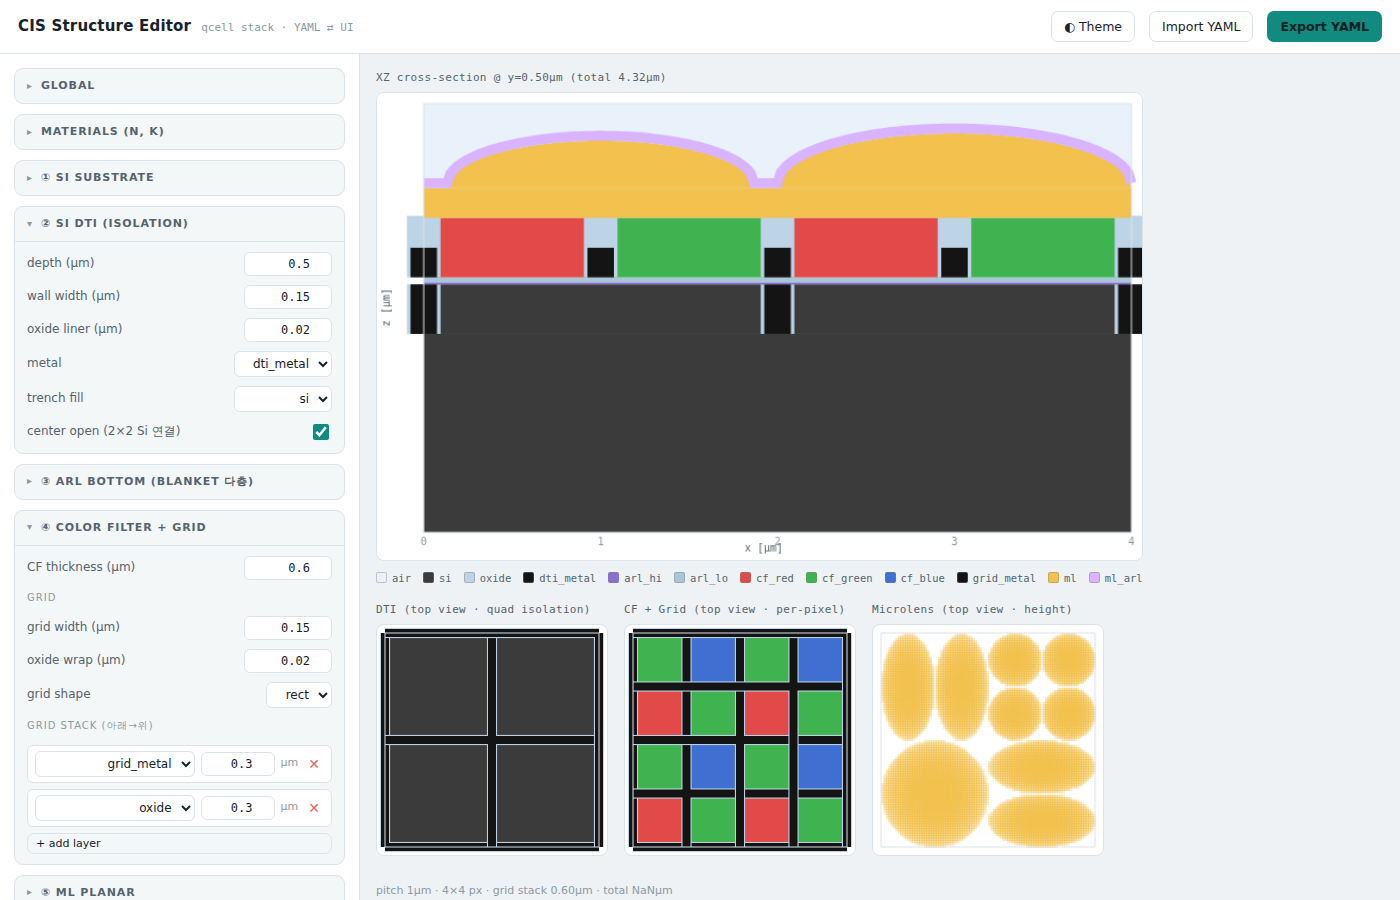
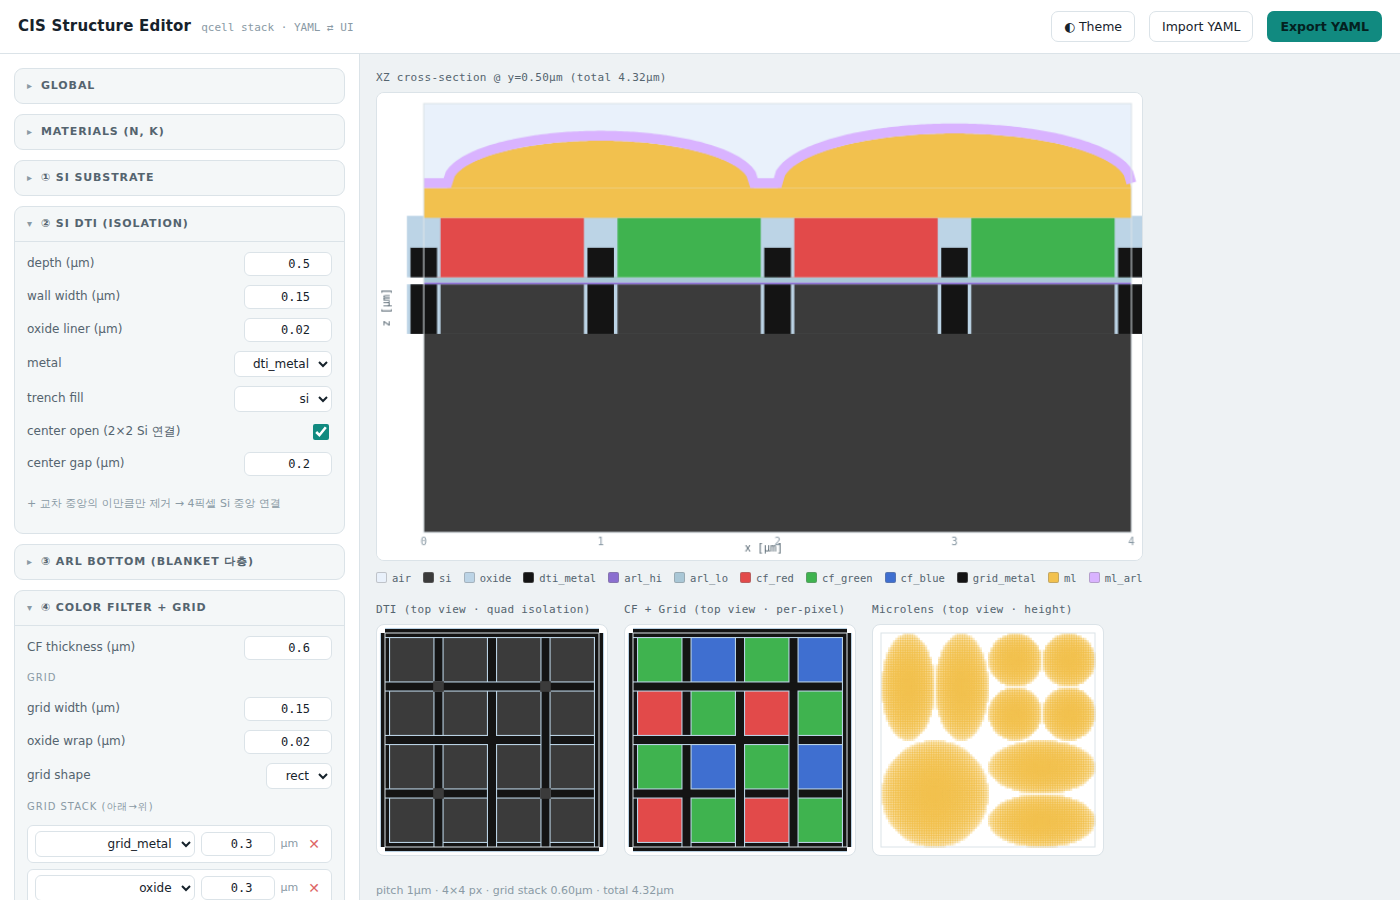
Fix DTI center: remove only small center gap (keep intra-quad walls)
- DTI 는 모든 pixel 경계에 벽, center_open 시 quad 중앙(+교차)의
  center_gap_um 사각만 제거 -> 4픽셀 Si 가 중앙에서 연결.
- XZ 단면/DTI top-view 반영, center_gap_um 파라미터 + 컨트롤 추가.
- structure_config.yaml dti 갱신.

Claude-Session: https://claude.ai/code/session_01TWsubYhc5KeSwgcdPsEJZM

diff --git a/cis_rcwa/structure_editor.html b/cis_rcwa/structure_editor.html
@@ -243,7 +243,7 @@ const DEFAULT = {
   bayer:[["R","G","R","G"],["G","B","G","B"],["R","G","R","G"],["G","B","G","B"]],
   stack:{
     si_substrate:{ thickness_um:2.0, material:"si" },
-    dti:{ depth_um:0.50, wall_width_um:0.15, oxide_liner_um:0.02, metal:"dti_metal", fill:"si", center_open:true },
+    dti:{ depth_um:0.50, wall_width_um:0.15, oxide_liner_um:0.02, metal:"dti_metal", fill:"si", center_open:true, center_gap_um:0.20 },
     arl_bottom:[ {material:"arl_hi",thickness_um:0.02}, {material:"arl_lo",thickness_um:0.05} ],
     color_filter:{ thickness_um:0.60,
       grid:{ width_um:0.15, shape:"rect", oxide_wrap_um:0.02,
@@ -291,12 +291,19 @@ function mlSag(x,y){
 // 경계 위치 판정
 function nearBoundary(coord, w){ const p=P(); const u=((coord%p)+p)%p; const h=w/2; return u<h||u>p-h; }
 function isDtiWall(x,y){
-  const p=P(), st=S.stack.dti, w=+st.wall_width_um+2*(+st.oxide_liner_um);
-  // center_open: DTI 는 quad(2p) 경계만. 아니면 모든 pixel 경계.
-  const per = st.center_open ? 2*p : p;
-  const half=w/2;
-  const ux=((x%per)+per)%per, uy=((y%per)+per)%per;
-  return (ux<half||ux>per-half) || (uy<half||uy>per-half);
+  // DTI 는 모든 pixel 경계에 벽. center_open 이면 quad 중앙(+교차) 작은 사각만 제거(Si 연결).
+  const p=P(), st=S.stack.dti, half=(+st.wall_width_um+2*(+st.oxide_liner_um))/2;
+  const bx=Math.round(x/p), by=Math.round(y/p);
+  const nearX=Math.abs(x-bx*p)<half, nearY=Math.abs(y-by*p)<half;
+  if(!(nearX||nearY)) return false;
+  if(st.center_open){
+    const gh=(+st.center_gap_um||0)/2;
+    // quad 중앙 = odd*p (intra-quad 경계 교차점)
+    const oddIdx=v=>{ const i=Math.round(v/p); return (i%2!==0)?i:(v>i*p?i+1:i-1); };
+    const ix=oddIdx(x), iy=oddIdx(y);
+    if(Math.abs(x-ix*p)<gh && Math.abs(y-iy*p)<gh) return false;  // 중앙 일부 제거
+  }
+  return true;
 }
 
 // ============================ 렌더: XZ 단면 ============================
@@ -333,9 +340,8 @@ function drawXZ(){
   rect(0,span,z,z+ +s.si_substrate.thickness_um, matColor(s.si_substrate.material)); z+=+s.si_substrate.thickness_um;
   // 2) DTI band
   const dz0=z, dth=+s.dti.depth_um; rect(0,span,z,z+dth,matColor(s.dti.fill));
-  { const st=s.dti, wm=+st.wall_width_um, ol=+st.oxide_liner_um, per=st.center_open?2*p:p;
-    for(let b=0;b<=np;b+= (st.center_open?2:1)){ const xb=b*p; if(xb<0||xb>span)continue;
-      // oxide liner column + metal core
+  { const st=s.dti, wm=+st.wall_width_um, ol=+st.oxide_liner_um;
+    for(let b=0;b<=np;b++){ const xb=b*p; if(!isDtiWall(xb,cutY)) continue;  // 중앙 gap 이면 skip
       rect(xb-(wm/2+ol),xb+(wm/2+ol),z,z+dth,matColor("oxide"));
       rect(xb-wm/2,xb+wm/2,z,z+dth,matColor(st.metal)); } }
   z+=dth;
@@ -395,9 +401,7 @@ function renderTops(){
     // Si 배경
     ctx.fillStyle=matColor("si"); ctx.fillRect(g.X(0),g.Y(g.span),g.span*g.sc,g.span*g.sc);
     const st=S.stack.dti, wm=+st.wall_width_um, ol=+st.oxide_liner_um, w=wm+2*ol;
-    const step=st.center_open?2:1;
-    for(let b=0;b<=np;b+=step){ const c=b*p;
-      // 세로/가로 벽
+    for(let b=0;b<=np;b++){ const c=b*p;   // 모든 pixel 경계
       ctx.fillStyle=matColor("oxide");
       ctx.fillRect(g.X(c-w/2),g.Y(g.span),w*g.sc,g.span*g.sc);
       ctx.fillRect(g.X(0),g.Y(c+w/2),g.span*g.sc,w*g.sc);
@@ -405,6 +409,10 @@ function renderTops(){
       ctx.fillRect(g.X(c-wm/2),g.Y(g.span),wm*g.sc,g.span*g.sc);
       ctx.fillRect(g.X(0),g.Y(c+wm/2),g.span*g.sc,wm*g.sc);
     }
+    // center gap: quad 중앙(odd*p,odd*p) 작은 사각만 Si 로 제거 -> 4픽셀 연결
+    if(st.center_open){ const gap=+st.center_gap_um||0; ctx.fillStyle=matColor(st.fill);
+      for(let ix=1;ix<np;ix+=2)for(let iy=1;iy<np;iy+=2){ const cx=ix*p,cy=iy*p;
+        ctx.fillRect(g.X(cx-gap/2),g.Y(cy+gap/2),gap*g.sc,gap*g.sc); } }
   });
   // CF + grid (per-pixel)
   drawTop("tvCf",(ctx,g)=>{
@@ -519,6 +527,8 @@ function buildSide(){
     h("div",{class:"row"},[h("label",{},["metal"]),matSelect(dti,"metal")]),
     h("div",{class:"row"},[h("label",{},["trench fill"]),matSelect(dti,"fill")]),
     h("div",{class:"row"},[h("label",{},["center open (2×2 Si 연결)"]),coCk]),
+    numRow("center gap (µm)",dti,"center_gap_um"),
+    h("p",{class:"hint"},["+ 교차 중앙의 이만큼만 제거 → 4픽셀 Si 중앙 연결"]),
   ]));
 
   // ARL bottom
